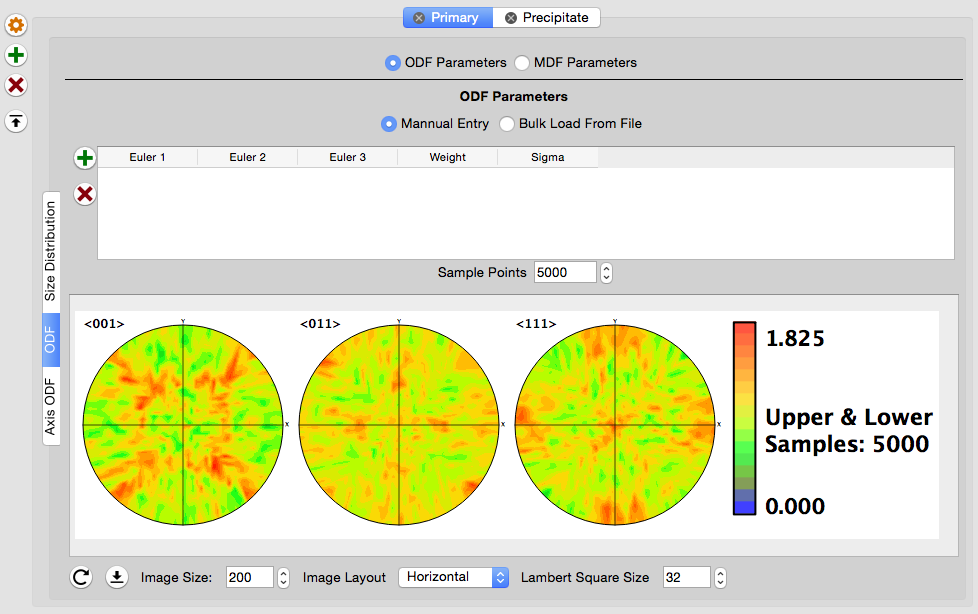
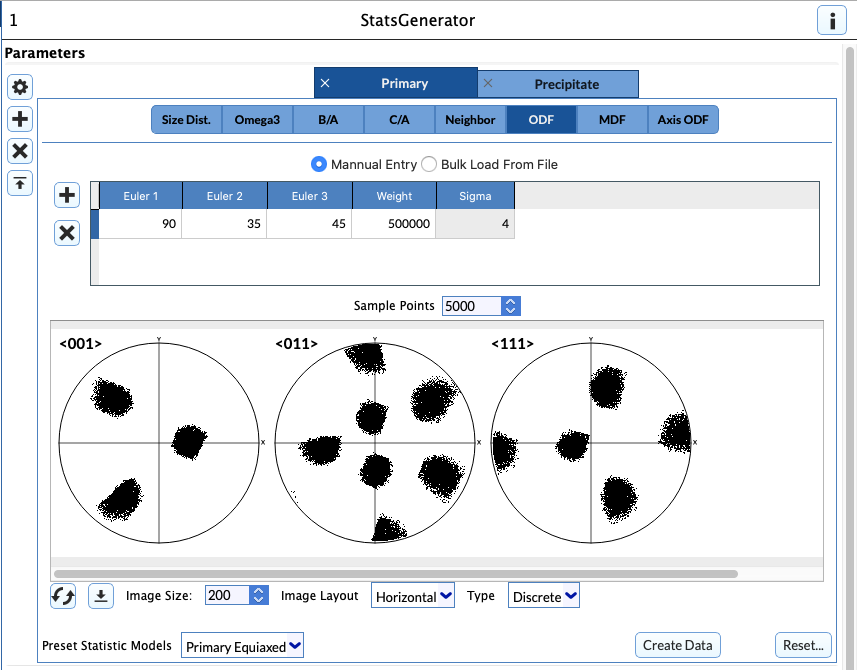
Update the StatsGen documentation to match the latest UI

diff --git a/Source/Plugins/SyntheticBuilding/Documentation/SyntheticBuildingFilters/StatsGeneratorFilter.md b/Source/Plugins/SyntheticBuilding/Documentation/SyntheticBuildingFilters/StatsGeneratorFilter.md
@@ -1,5 +1,4 @@
-StatsGenerator 
-=============
+# StatsGenerator #
 
 ## Group (Subgroup) ##
 
@@ -12,7 +11,6 @@ This **Filter** creates the arrays necessary to [generate synthetic microstructu
 The StatsGenerator **Filter** was created to allow users to quickly generate a set of statistics that can be used to create a synthetic microstructure. Using this  **Filter**, the user can generate the necessary statistics that describe a microstructure, with the aid of visual plots of the statistics, and immediately use them in the **Pipeline** to generate a synthetic microstructure. The statistics data can also be [saved to a DREAM.3D file](@ref datacontainerwriter) for later use.
 
 The set(s) of statistics that can be generated in this program correspond to the set(s) used by "**Feature** packing algorithms" in DREAM.3D.  DREAM.3D chooses to classify **Features** in *Phase Types*, which define the set of statistics used to describe the key metrics for those **Features**.  The *Phase Types* that can currently be selected in DREAM.3D are _Primary_, _Precipitate_ and _Matrix_.  The statistics that describe each of these *Phase Types* are listed below:
-
 
 | Primary | Precipitate  | Matrix  |
 |---------|--------------|---------|
@@ -28,18 +26,15 @@ The set(s) of statistics that can be generated in this program correspond to the
 |  MDF |MDF |  |
 |  axis ODF (morphological orientation) | axis ODF (morphological orientation)|  |
 
-
-
 *Stats designated with a { } are located on the Phase Properties Manager*
 
 ## Phase Properties ##
 
+The user can use the following buttons to add, remove or edit a phase:
 
-The user can use the following buttons to add, remove or edit a phase
 + Add ![Phase Properties Buttons](Images/SG_AddPhase.png)
 + Delete ![Phase Properties Buttons](Images/SG_DeletePhase.png)
 + Edit ![Phase Properties Buttons](Images/SG_EditPhase.png)
-
 
 The user can add, remove or modify properties of the phase by clicking the *Phase Properties Buttons* at the bottom of the StatsGenerator GUI. The _plus button_ allows the user to add a phase, the _minus button_ allows the user to remove a phase, and the _cogwheel button_ allows the user to edit the currently selected phase.
 
@@ -55,67 +50,62 @@ The *Phase Properties* is a dialog where the user can enter information about th
 
 ## Size Distribution Tab ##
 
-![Size Distribution GUI](Images/image001.png)
+![Size Distribution GUI](Images/SG_SizeDist.png)
 
 The plot displayed on this tab is the _actual size distribution_ of the **Features** that will be placed for this phase.  The X-axis is the _equivalent sphere diameter_ (ESD) of the **Feature**.  ESD indicates the diameter of a sphere that has the equivalent volume of the **Feature**.  The units of ESD in this plot are in arbitrary units of length (i.e., meters, millimeters, microns, nanometers, etc).  The Y-axis of the plot is the probability of sampling that ESD from the distribution.  The parameters listed below are what define the size distribution and how it is binned for correlation with other statistical descriptors to be described later.  When entering the parameters that define the size distribution, it is generally a good work flow to iteratively adjust the parameters while watching the plot until the plot appears "satisfactory" with respect to the location of the peak and the length of the "tails", rather that be overly concerned with the parameter values themselves.
 
-
 These parameters define the size distribution itself but given a constant **Bin Step Size** will alter the number of bins that are created:
 
-  + **Mu**: The average value of the lognormal grain size distribution. Note that this is the average value of log(ESD).  This value is in the same arbitrary units of length as the plot, but is not the average **Feature** size
-  + **Sigma**: The standard deviation of the lognormal grain size distribution.  Note that this is not the standard deviation of the actual **Feature** size distribution, but of the log(ESD) values.  This value controls the length of the "tails" of the distribution
-  + **Sigma Cut Off Value**: Allows the user to truncate the distribution to remove very large (or small) **Features**.  These values show up as blue vertical lines on the plot and only the portion of the **Feature** size distribution between the two blue vertical lines can be sampled.
++ **Mu**: The average value of the lognormal grain size distribution. Note that this is the average value of log(ESD).  This value is in the same arbitrary units of length as the plot, but is not the average **Feature** size
++ **Sigma**: The standard deviation of the lognormal grain size distribution.  Note that this is not the standard deviation of the actual **Feature** size distribution, but of the log(ESD) values.  This value controls the length of the "tails" of the distribution
++ **Sigma Cut Off Value**: Allows the user to truncate the distribution to remove very large (or small) **Features**.  These values show up as blue vertical lines on the plot and only the portion of the **Feature** size distribution between the two blue vertical lines can be sampled.
 
 ![Equations to calculate the minimum and maximum ESD values that will be used when generating the **Features**](Images/SG_MinMax_Equation.png)
 
-  + **Feature ESD**: If the user would rather simply input the ESD directly instead of manipulating the **Mu** parameter then this field can be used as an alternate. After entering an ESD the user should type the __RETURN__ or __ENTER__ key or click somewhere else in the user interface to update the plots. This field and the **Mu** fields are linked. Changing one will update the other.
++ **Feature ESD**: If the user would rather simply input the ESD directly instead of manipulating the **Mu** parameter then this field can be used as an alternate. After entering an ESD the user should type the __RETURN__ or __ENTER__ key or click somewhere else in the user interface to update the plots. This field and the **Mu** fields are linked. Changing one will update the other.
 
 These parameters control the binning of the **Feature** size distribution:
 
-  + **Bin Step Size**: The size of bin to use in segregating the **Feature** size distribution into classes for correlating other statistics to **Feature** size. The point of creating size classes in the **Feature** size distribution is that it allows the user to give different shape or number of neighbors distributions to features at different points along the **Feature** size distribution. For example, the user can set to small **Features** to be spherical while making large **Features** elongated by modifying the statistics associated with **Features** in the lower bins differently than those in the higher bins.  If the user has no desire to have different statistics for different sizes, then a large value can be used to create a single size class.  Note that the *Bins to be Created* value is displayed in the bottom left corner, which tells the user for the given *Bin Step Size* how many size classes will be created along the **Feature** size distribution
++ **Bin Step Size**: The size of bin to use in segregating the **Feature** size distribution into classes for correlating other statistics to **Feature** size. The point of creating size classes in the **Feature** size distribution is that it allows the user to give different shape or number of neighbors distributions to features at different points along the **Feature** size distribution. For example, the user can set to small **Features** to be spherical while making large **Features** elongated by modifying the statistics associated with **Features** in the lower bins differently than those in the higher bins.  If the user has no desire to have different statistics for different sizes, then a large value can be used to create a single size class.  Note that the *Bins to be Created* value is displayed in the bottom left corner, which tells the user for the given *Bin Step Size* how many size classes will be created along the **Feature** size distribution
 
-![Equation to calculate the number of bins](Images/numbin_eqn.png)
+![Equation to calculate the number of bins](Images/SG_numbin_eqn.png)
 
-### These options set the initial defaults for the correlated statistics.###
+### These options set the initial defaults for the correlated statistics ###
 
-  + **Preset Statistic Models**: Allows the user to select a _morphological type_ of microstructure to populate the default data. The two options currently provided are:
-    - **Equiaxed**: Populates the statistics tabs with data that is designed to generate a random equiaxed microstructure
-    - **Rolled**: Populates the statistic tabs with data that is designed to generate a rolled microstructure with elongated grains with user defined aspect ratios.  If this preset is selected, the user is prompted to enter:
-        - A Axis Length: this is the length of the longest axis of the **Feature(s)**
-        - B Axis Length: this is the length of the intermediate axis of the **Feature(s)**
-        - C Axis Length: this is the length of the shortest axis of the **Feature(s)**
++ **Preset Statistic Models**: Allows the user to select a _morphological type_ of microstructure to populate the default data. The two options currently provided are:
+  + **Equiaxed**: Populates the statistics tabs with data that is designed to generate a random equiaxed microstructure
+  + **Rolled**: Populates the statistic tabs with data that is designed to generate a rolled microstructure with elongated grains with user defined aspect ratios.  If this preset is selected, the user is prompted to enter:
+    + A Axis Length: this is the length of the longest axis of the **Feature(s)**
+    + B Axis Length: this is the length of the intermediate axis of the **Feature(s)**
+    + C Axis Length: this is the length of the shortest axis of the **Feature(s)**
 
 *The values entered for these axis lengths DO NOT need to be actual lengths, but rather are used to establish aspect ratios, so they need only be relative*
 
 After all desired input fields have been set to desired values the user will need to click the **Create Data** button.
 
-  + **Create Data**: Locks in the values the user has entered and populates the other tabs with default values. The user can move through the other tabs and change any default values if desired.
++ **Create Data**: Locks in the values the user has entered and populates the other tabs with default values. The user can move through the other tabs and change any default values if desired.
 
-####IMPORTANT NOTE:####
+#### IMPORTANT NOTE ####
 
-Anytime the user changes any input fields in the **Size Distribution** tab the **Create Data** button MUST be clicked ![Images/CreateDataBtn.png](Images/CreateDataBtn.png)
+Anytime the user changes any input fields in the **Size Distribution** tab the **Create Data** button MUST be clicked ![Images/CreateDataBtn.png](Images/SG_CreateDataBtn.png)
 
 ## Omega3 Tab ##
 
 The Omega3 tab controls the morphological shape of the features that are generated. Right-Click on the plot area to edit the values.
 
-
 + **Bin**: Calculated from the size distribution and cannot be changed
 + **Alpha**: The &alpha; parameter of a beta distribution. Omega3 is normalized and can only be between 0 and 1 to insure that the beta distribution is a good fit
 + **Beta**: The &beta; parameter of the beta distribution
 
+![Omega3 GUI](Images/SG_Omega3Plot.png)
 
-![Omega3 GUI](Images/Omega3Plot.png)
-
-![Examples of object shapes from the class of the superellipsoid shapes. The normalized affine invariant &omega;3 is shown as a function of the shape parameter __n__. Figure courtesy of M. De Graef](Images/Omega3_Chart.png)
-![Examples of object shapes from the class of the superellipsoid shapes. The normalized affine invariant &Omega;3 is shown as a function of the shape parameter __n__. Figure courtesy of M. De Graef](Images/Omega3Range.png)
-
-
+![Examples of object shapes from the class of the superellipsoid shapes. The normalized affine invariant &omega;3 is shown as a function of the shape parameter __n__. Figure courtesy of M. De Graef](Images/SG_Omega3_Chart.png)
+![Examples of object shapes from the class of the superellipsoid shapes. The normalized affine invariant &Omega;3 is shown as a function of the shape parameter __n__. Figure courtesy of M. De Graef](Images/SG_Omega3Range.png)
 
 ## Shape Distribution Tab ##
 
-![Shape Distribution (Aspect Ratios) GUI](Images/BOverAPlot.png)
-![Shape Distribution (Aspect Ratios) GUI](Images/COverAPlot.png)
+![Shape Distribution (Aspect Ratios) GUI](Images/SG_BOverAPlot.png)
+![Shape Distribution (Aspect Ratios) GUI](Images/SG_COverAPlot.png)
 
 + **Bin**: Xalculated from the size distribution and cannot be changed
 + **Alpha**: The &alpha; parameter of a beta distribution. B/A, C/A and C/B are normalized and can only be between 0 and 1 to insure that the beta distribution is a good fit
@@ -123,17 +113,17 @@ The Omega3 tab controls the morphological shape of the features that are generat
 
 ## Neighbor Distribution Tab ##
 
-![Number of Neighbors Distribution GUI](Images/NeighborDistPlot.png)
+![Number of Neighbors Distribution GUI](Images/SG_NeighborDistPlot.png)
 
 The Neighbor Distribution data is generated from a [Log-Normal Probability Distribution Function\(PDF\)](https://en.wikipedia.org/wiki/Log-normal_distribution) distribution.
 
-![](Images/LogNormal_PDF_Equation.png)
+![Log Normal PDF Plot](Images/LogNormal_PDF_Equation.png)
 
 + **Bin**: Calculated from the size distribution and cannot be changed
 + **Average**: The **x** parameter of a Log-Normal Probability Distributeion Function (PDF).
 + **Standard Deviation**: The &sigma; parameter of a Log-Normal Probability Distributeion Function (PDF).
 
-## Radial Distribution Function Tab ## 
+## Radial Distribution Function Tab ##
 
 This option is only available for the precipitate phase.
 ![Radial Distribution Function GUI]
@@ -152,7 +142,7 @@ Also note, the number of created bins in the normalized frequency list may be MO
 
 The user **MUST** click **Generate RDF** button for the values to get stored.
 
-![RDF Plot](Images/RDFPlot.png)
+![RDF Plot](Images/SG_RDFPlot.png)
 
 ## ODF Tab ##
 
@@ -160,7 +150,7 @@ The ODF tab controls the generation of the Orientation Distribution Function. Th
 
 ![ODF (Crystallographic Orientation) GUI](Images/SG_ODF_1.png)
 
-### Weights and Spreads Section ###
+### Weights and Spreads Section  (ODF) ###
 
 + **Euler 1-3**: The Euler angles that define an orientation that the user would like to increase in weight
 + **Weight**: The weight in units of MRD (multiples of random distribution) for the entered orientation. To generate a strong texture use a value of 500,000.
@@ -178,24 +168,23 @@ The ODF tab controls the generation of the Orientation Distribution Function. Th
 
 The filter __Export StatsGenerator ODF Angle File__ can help the user create the proper kind of file that is needed for this section to work. An example input file is below:
 
-![Bulk Load the ODF Angles from a File.](Images/BulkLoadAngles.png)
+![Bulk Load the ODF Angles from a File.](Images/SG_BulkLoadAngles.png)
 
+    # All lines starting with '#' are comments and should come before the header.
+    # DREAM.3D StatsGenerator Angles Input File
+    # DREAM.3D Version 6.1.107.0d8bad9
+    # Angle Data is space delimited.
+    # Euler0 Euler1 Euler2 Weight Sigma
+    Angle Count:100
+    0 0 0 1 1
+    3.6 1.8 3.6 1 1
+    7.2 3.6 7.2 1 1
+    10.8 5.4 10.8 1 1
+    14.4 7.2 14.4 1 1
 
-	# All lines starting with '#' are comments and should come before the header.
-	# DREAM.3D StatsGenerator Angles Input File
-	# DREAM.3D Version 6.1.107.0d8bad9
-	# Angle Data is space delimited.
-	# Euler0 Euler1 Euler2 Weight Sigma
-	Angle Count:100
-	0 0 0 1 1
-	3.6 1.8 3.6 1 1
-	7.2 3.6 7.2 1 1
-	10.8 5.4 10.8 1 1
-	14.4 7.2 14.4 1 1
-	
 The **only** required header line is:
 
-	Angle Count:100
+    Angle Count:100
 
 There are 5 columns of data which are the 3 Euler Angles, the Weight Value and the Sigma Value.
 
@@ -203,12 +192,11 @@ There are 5 columns of data which are the 3 Euler Angles, the Weight Value and t
 
 Choice of delimiter can be Comma (,), semicolon (;), space ( ), colon (:) or tab (\t)
 
-
 ### MDF Section ###
 
 This sub-tab will display the baseline _misorientation distribution function_ (MDF) for the generated ODF.  The  implemented algorithm proceeds by randomly sampling pairs of orientations from the ODF and calculating the misorientation (axis-angle only). Only the angle is plotted in the misorientation distribution plot.  The user can also add axis-angle pairs to increase in weight.
 
-![MDF GUI](Images/MDF_Plot.png)
+![MDF GUI](Images/SG_MDF_Plot.png)
 
 + **Angle**: The angle of the misorientation to increase in weight
 + **Axis**: The axis of the misorientation to increase in weight.  If the crystal structure being used for the phase is Hexagonal, then this axis is in the 3-index, orthogonal convention, not the true (hkil) convention
@@ -218,18 +206,16 @@ This sub-tab will display the baseline _misorientation distribution function_ (M
 
 This tab works in a similar fashion to the ODF tab in that the user can enter values that will orient the grains in a morhphological sense.
 
-![Axis ODF (Morphological Orientation) GUI](Images/AxisODF_1.png)
+![Axis ODF (Morphological Orientation) GUI](Images/SG_AxisODF_1.png)
 
-### Weights and Spreads Section ###
+### Weights and Spreads Section (Axis ODF) ###
 
 + **Euler 1-3**: The Euler angles that define an orientation that the user would like to increase in weight
 + **Weight**: The weight in units of MRD (multiples of random distribution) for the entered orientation
 + **Sigma**: Spread to use in blurring out the orientation chosen. The value corresponds to the number of bins in Rodrigues (orientation) space it takes for the MRD value entered in the _Weight_ column to reduce to 0.0 (decreasing quadratically from the bin of the entered orientation)
 + **Calculate ODF**: Builds the ODF and then creates pole figures (PFs) for the user to inspect
 
-
 + Three PFs are formed, which correspond to the location of the 3 principal axes of the grains to be generated (i.e., A > B > C)
-
 
 ## Required Geometry ##
 
